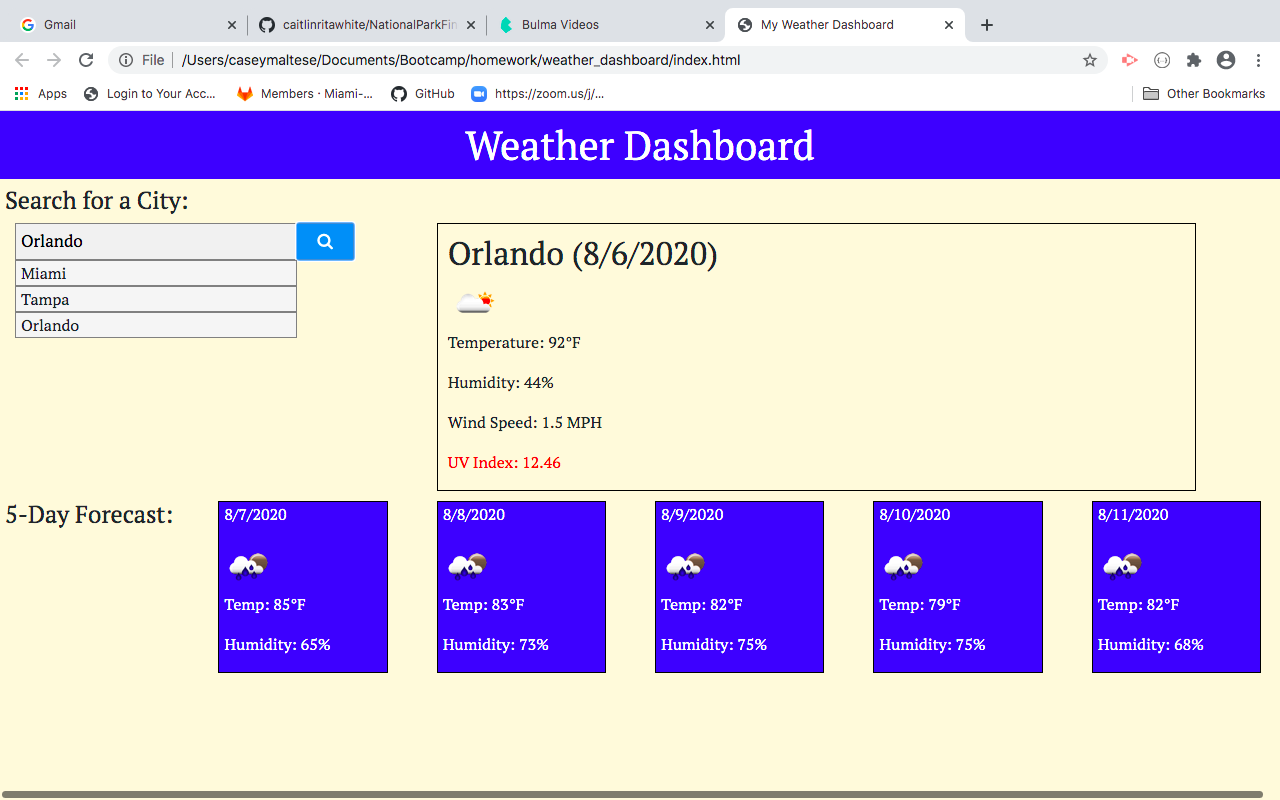
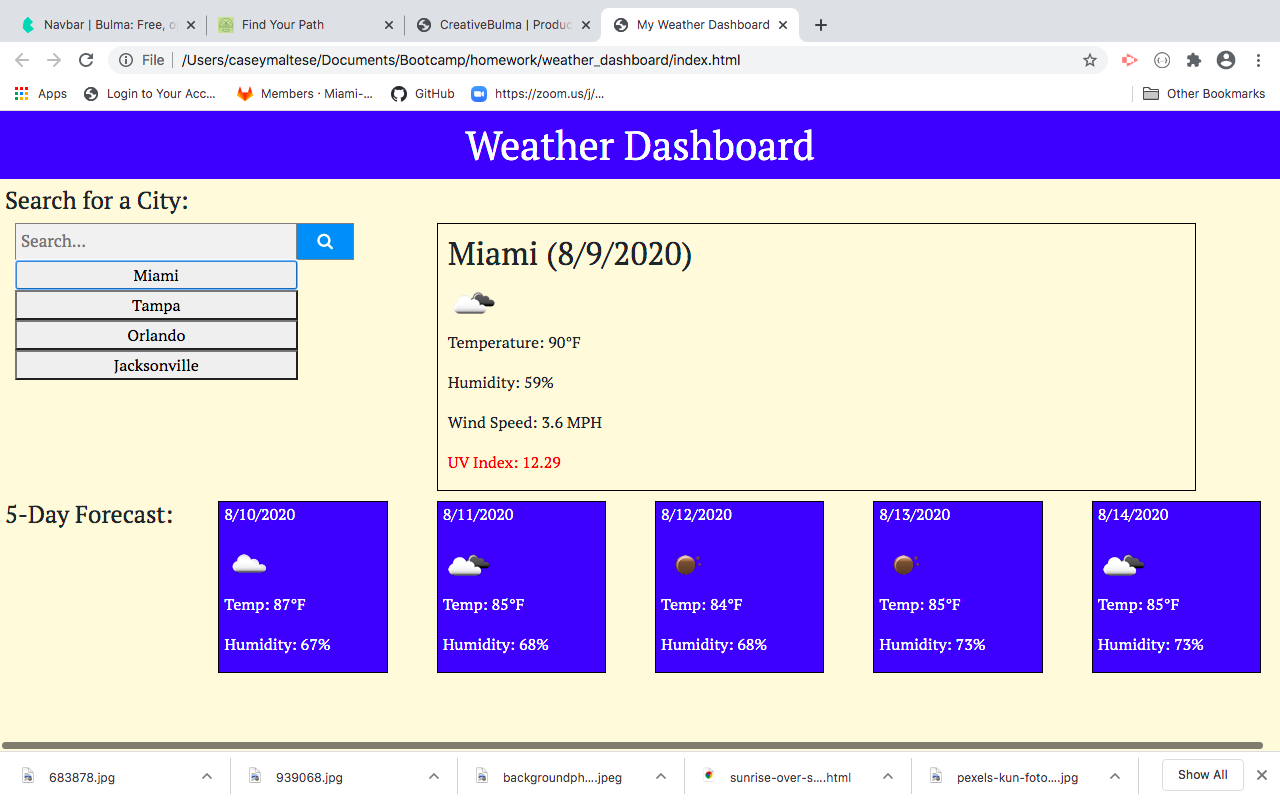
updated html,css,js,pic,README

diff --git a/assets/script.js b/assets/script.js
@@ -29,7 +29,7 @@ function historyButtonMaker() {
 historyButtonMaker();
 
 
-$(".previous-search").click(function (event) {
+$(document).on("click", ".previous-search", function (event) {
     event.preventDefault();
     var city = $(this).text();
     console.log(city);
@@ -101,6 +101,11 @@ function uvIndex(lat, lon) {
 
 // gets five day forecast for searched
 function fiveDayForecast(fiveday) {
+    $("#day1").empty();
+    $("#day2").empty();
+    $("#day3").empty();
+    $("#day4").empty();
+    $("#day5").empty();
 
     var queryURL = `https://api.openweathermap.org/data/2.5/forecast?q=${fiveday}&appid=${apiKey}`;
 

diff --git a/index.html b/index.html
@@ -15,6 +15,7 @@
     <h1>Weather Dashboard</h1>
     <h4>Search for a City:</h4>
 
+    <!--div for searched cities-->
     <div class="row">
         <div class="col-xl-4 col-lg-4 col-md-12 col-sm-12">
             <div class="container">
@@ -28,6 +29,7 @@
             </div>
         </div>
         <div class="col-xl-8 col-lg-8 col-md-12 col-sm-12">
+
             <!-- div for city, temp, humidity, wind speed, uvi-->
             <div>
                 <div class="city-stats" id="uv-index"></div>

diff --git a/assets/style.css b/assets/style.css
@@ -52,6 +52,10 @@
     margin-left: 5px;
   }
 
+  #list {
+    margin-right: 25%;
+  }
+
   .city-stats {
     border: 1px solid black;
     width: 90%;

diff --git a/README.md b/README.md
@@ -1,5 +1,5 @@
 # weather_dashboard
-Welcome to my Weather Dashboard!  This dashboard was created using OpenWeather API (https://openweathermap.org/api) and runs in the browser.  The application allows the user to search any city of their choice.  The application will save the city in local storage and on the page itself under the search box so the user can see what cities they have searched.  The result of the search will feature the current weather by displaying the temperature in farenheit, humidity percentage, wind speed, and the UV index.  At the bottom of the page the user will find the forecast for the following five days which will give the date, temperature in farenheit, and humidity percentage.  Weather icons are also included. This app is responsive and features dynamically updated HTML and CSS.
+Welcome to my Weather Dashboard!  This dashboard was created using OpenWeather API (https://openweathermap.org/api) and runs in the browser.  The application allows the user to search any city of their choice.  The application will save the city in local storage and on the page itself under the search box so the user can see what cities they have searched.  The result of the search will feature the current weather by displaying the temperature in farenheit, humidity percentage, and wind speed. The UV index also appears in various colors depending on the severity for that day.  At the bottom of the page the user will find the forecast for the following five days which will give the date, temperature in farenheit, and humidity percentage.  Weather icons are also included. This app is responsive and features dynamically updated HTML and CSS.
 
 Screenshot: <img src="./assets/weather_dashboard.png">
 
